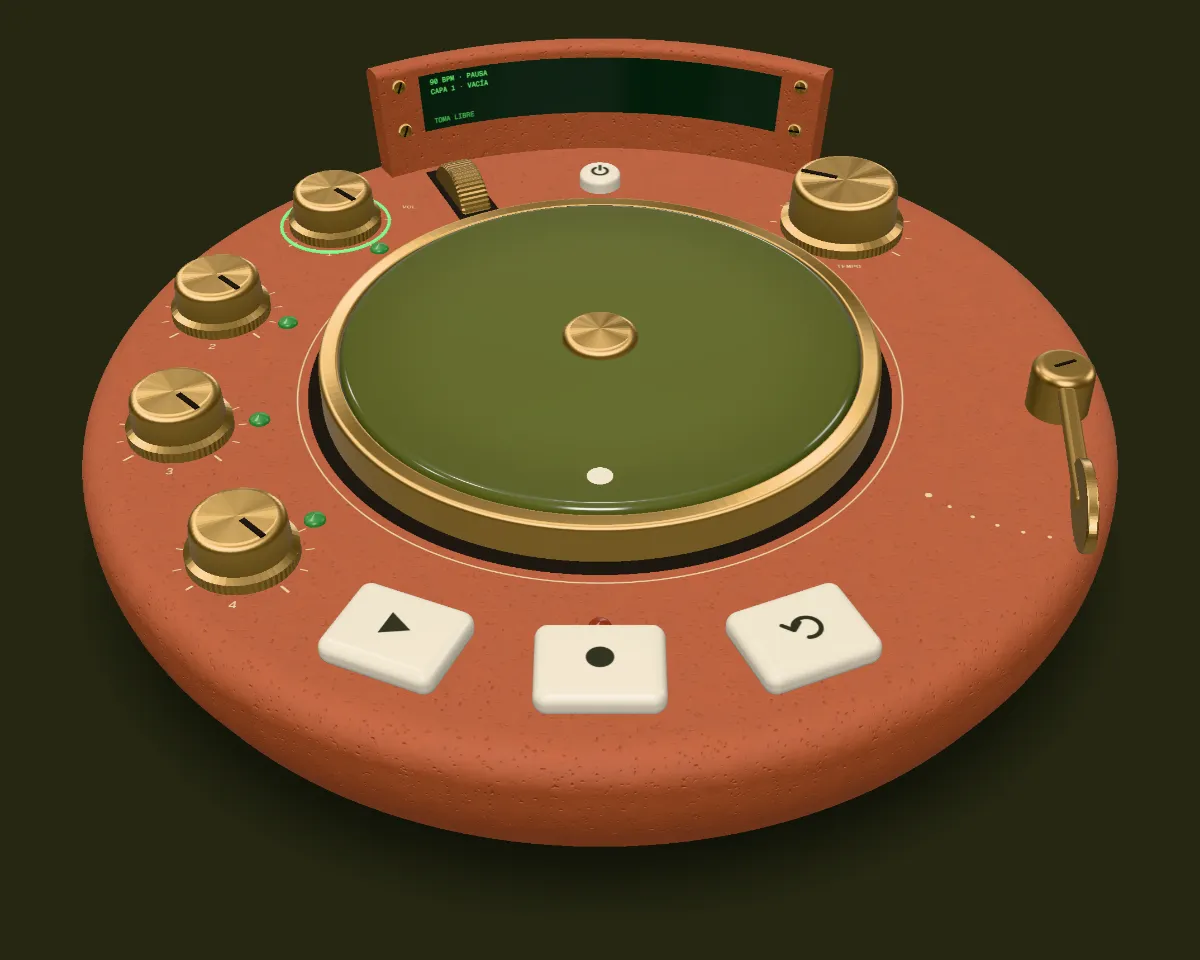
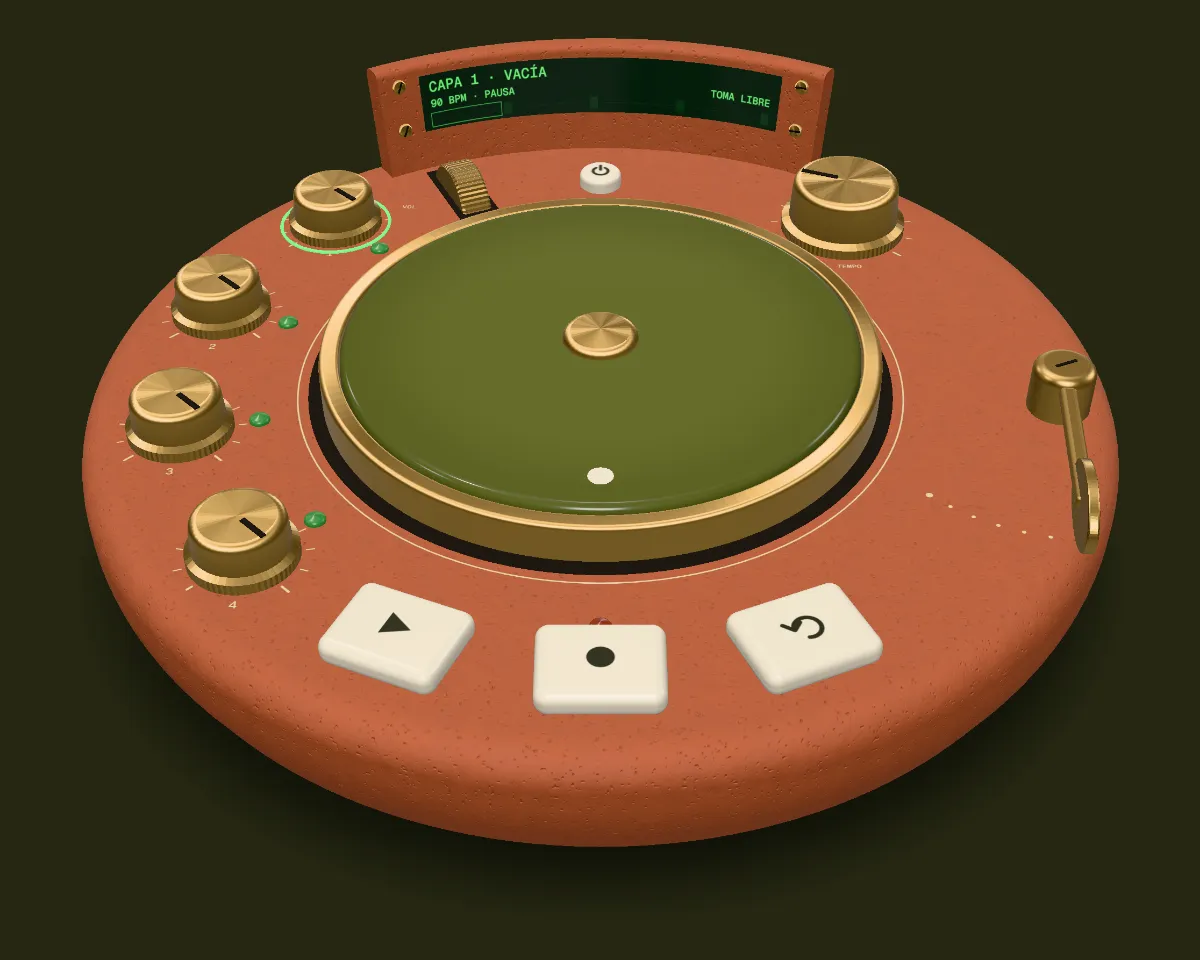
feat: pósteres del escritorio y del móvil, y capturas de cada encuadre
- El póster del móvil (`escenario-movil.webp`, 800×800, 29 kB) es el
  encuadre 1:1 visto desde más arriba; el del escritorio
  (`escenario.webp`, 1200×960, 48 kB) se rehace con el esmalte nuevo. Van
  en un `<picture>`, en el escenario y en el marcador de la portada.
- `?captura=1&encuadre=` (capas, controles o inspeccionar): el encuadre de
  la captura, también en la barra.
- `npm run capturas -- --solo=escenario` fotografía el instrumento 3D
  entero en cada encuadre y en «Inspeccionar» (con su hoja de contactos) y
  escribe el cuerpo de letra de la pantalla del 3D. `--poster` hace los
  dos pósteres.

diff --git a/src/app/features/instrument-stage/instrument-stage.ts b/src/app/features/instrument-stage/instrument-stage.ts
@@ -20,6 +20,7 @@ import {
   createSceneEngine,
   ORBIT_LIMITS,
   QUALITY_LEVELS,
+  SHOTS,
   VIEWS,
   type CameraGoal,
   type Orbit,
@@ -49,6 +50,8 @@ const ORBIT_DEGREES_PER_PX = { azimuth: 0.4, elevation: 0.25 } as const;
 const ORBIT_KEY_STEP = { azimuth: 10, elevation: 5 } as const;
 /** «Inspeccionar» empieza de frente si no hay cámara de la que partir. */
 const FRONT: Orbit = { azimuth: 0, elevation: 40 };
+/** Con `?captura=1&encuadre=inspeccionar`: tres cuartos desde la derecha, algo bajo. */
+const CAPTURE_ORBIT: Orbit = { azimuth: 35, elevation: 28 };
 /** Tras girar, otra mirada a qué controles tapa otra pieza (el motor la hace 10 veces por segundo). */
 const SETTLE_MS = 120;
 
@@ -74,8 +77,9 @@ const clamp = (value: number, { min, max }: { min: number; max: number }) =>
  * cabezales, leyendo el último estado del audio sin pasar por los signals. Quieto, 0 fps. Con
  * «Pausar movimiento», nada se mueve solo: el disco solo va con la mano.
  *
- * Con `?captura=1`, todo fijo y las cifras en `data-estadisticas` (y `?vista=` y `?calidad=` eligen
- * ángulo y nivel). En desarrollo y con `?diagnostico=1`, el panel de la escena.
+ * Con `?captura=1`, todo fijo y las cifras en `data-estadisticas`. `?vista=` elige un ángulo de las
+ * capturas, `?encuadre=` un encuadre (o `inspeccionar`) y `?calidad=` el nivel. En desarrollo y con
+ * `?diagnostico=1`, el panel de la escena.
  */
 @Component({
   selector: 'trn-instrument-stage',
@@ -93,15 +97,23 @@ const clamp = (value: number, { min, max }: { min: number; max: number }) =>
           [attr.data-camara]="cameraName()"
           [attr.data-estadisticas]="stats()"
         >
-          <img
-            class="stage3d__poster"
-            [class.is-gone]="shown()"
-            [src]="poster.src"
-            [width]="poster.width"
-            [height]="poster.height"
-            alt=""
-            decoding="async"
-          />
+          <picture>
+            <source
+              [attr.media]="poster.mobileMedia"
+              [attr.srcset]="poster.mobile.src"
+              [attr.width]="poster.mobile.width"
+              [attr.height]="poster.mobile.height"
+            />
+            <img
+              class="stage3d__poster"
+              [class.is-gone]="shown()"
+              [src]="poster.src"
+              [width]="poster.width"
+              [height]="poster.height"
+              alt=""
+              decoding="async"
+            />
+          </picture>
           <canvas
             #canvas
             role="img"
@@ -364,6 +376,7 @@ export class InstrumentStage {
       const params = new URLSearchParams(location.search);
       const capture = isCaptureMode(location.search);
       const view = capture ? pick<View>(params.get('vista'), VIEWS) : undefined;
+      if (capture) this.captureCamera(params.get('encuadre'));
       let created: SceneEngine | null = null;
       const onEvent = (event: SceneEvent) => {
         switch (event.type) {
@@ -478,6 +491,16 @@ export class InstrumentStage {
     };
     this.orbitView.set(this.orbit);
     this.setCamera({ kind: 'orbit', orbit: this.orbit }, true);
+  }
+
+  /** Con `?captura=1&encuadre=`: el encuadre de la captura, también en la barra. */
+  private captureCamera(name: string | null): void {
+    const shot = pick<Shot>(name, SHOTS);
+    if (shot) this.camera.set({ kind: 'shot', shot });
+    if (name !== 'inspeccionar') return;
+    this.orbit = CAPTURE_ORBIT;
+    this.orbitView.set(CAPTURE_ORBIT);
+    this.camera.set({ kind: 'orbit', orbit: CAPTURE_ORBIT });
   }
 
   /** Con la pausa de movimiento, la cámara corta; si no, viaja. */

diff --git a/src/app/pages/home/home-page.ts b/src/app/pages/home/home-page.ts
@@ -69,14 +69,22 @@ import { HOME_CONTENT } from './home.content';
                 inicial (esbuild reparte por módulos) y lo pasaba de 300 kB. Un solo póster, sin
                 srcset, no la necesita.
               -->
-              <img
-                [src]="poster.src"
-                [width]="poster.width"
-                [height]="poster.height"
-                [alt]="text.instrument.poster"
-                loading="lazy"
-                decoding="async"
-              />
+              <picture>
+                <source
+                  [attr.media]="poster.mobileMedia"
+                  [attr.srcset]="poster.mobile.src"
+                  [attr.width]="poster.mobile.width"
+                  [attr.height]="poster.mobile.height"
+                />
+                <img
+                  [src]="poster.src"
+                  [width]="poster.width"
+                  [height]="poster.height"
+                  [alt]="text.instrument.poster"
+                  loading="lazy"
+                  decoding="async"
+                />
+              </picture>
             </div>
             <div class="stage3d-placeholder__bar"></div>
           </div>

diff --git a/src/app/features/instrument-stage/stage-poster.ts b/src/app/features/instrument-stage/stage-poster.ts
@@ -1,7 +1,15 @@
 /**
- * El póster del escenario 3D: una captura del propio motor en `?captura=1`, del mismo tamaño que el
- * lienzo (5:4), para que el fundido no mueva nada. Lo genera `npm run capturas -- --poster`.
+ * Los pósteres del escenario 3D: capturas del propio motor en `?captura=1`, de la misma proporción
+ * que el lienzo, para que el fundido no mueva nada. En el escritorio, 5:4; en el móvil, 1:1 (su
+ * encuadre, desde más arriba). Los genera `npm run capturas -- --poster`.
  *
  * Va aparte del componente: la portada lo usa en el marcador del `@defer` sin cargar el escenario.
  */
-export const STAGE_POSTER = { src: '/img/escenario.webp', width: 1200, height: 960 } as const;
+export const STAGE_POSTER = {
+  src: '/img/escenario.webp',
+  width: 1200,
+  height: 960,
+  /** El del móvil: hasta 47,99 rem de ancho, como la caja cuadrada. */
+  mobile: { src: '/img/escenario-movil.webp', width: 800, height: 800 },
+  mobileMedia: '(max-width: 47.99rem)',
+} as const;
